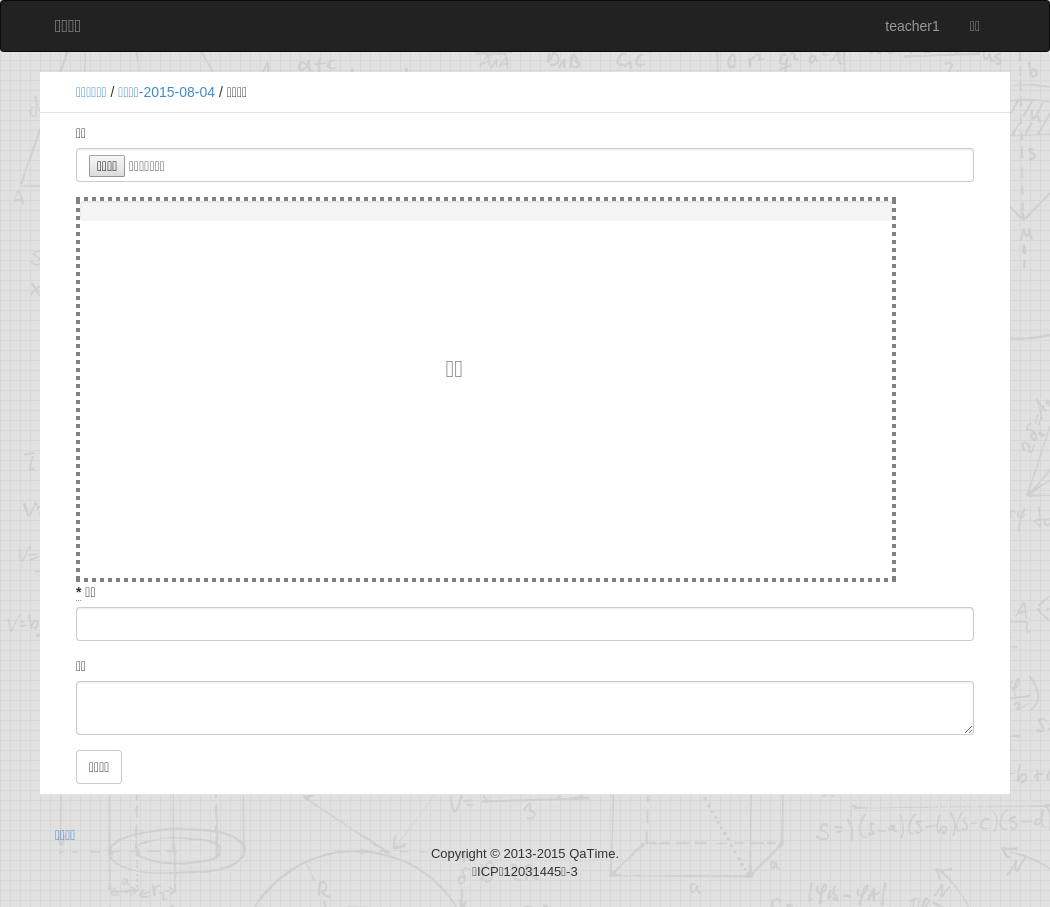
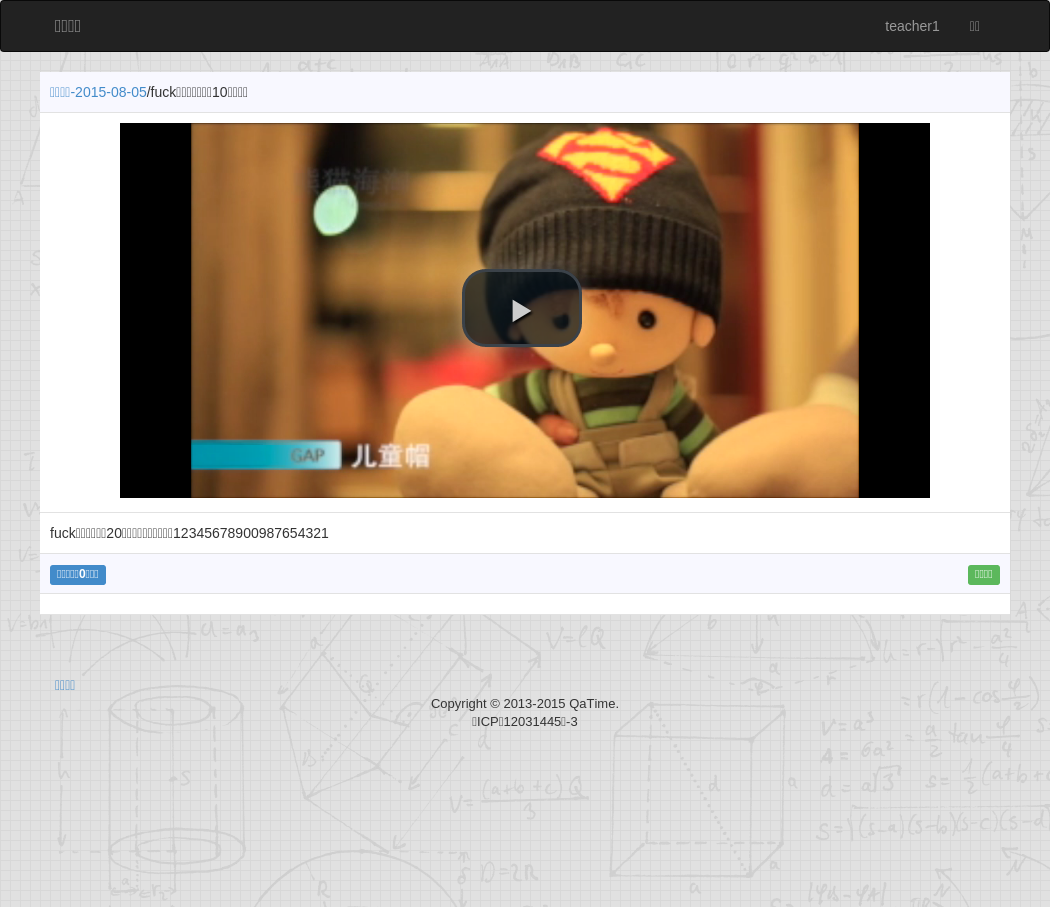
customize course create edit test

diff --git a/test/integration/customized_tutorial_create_test.rb b/test/integration/customized_tutorial_create_test.rb
@@ -18,8 +18,51 @@ class CustomizedTutorialCreateTest < ActionDispatch::IntegrationTest
 
   test 'customized tutorial create' do
     log_in_as(@teacher)
-
     visit new_customized_course_customized_tutorial_path(@customized_course)
+
+
+    fill_in :customized_tutorial_title,with: '这个长度不能少10的啊啊啊'
+    fill_in :customized_tutorial_content,with: '这个不能少于20啊啊啊啊啊啊啊啊啊啊12345678900987654321'
     page.save_screenshot('screenshot.png')
+
+    assert_difference 'Video.count',1 do
+      assert_difference 'CustomizedTutorial.count',1 do
+        attach_file("video_name","#{Rails.root}/test/integration/test.mp4")
+        l = CustomizedTutorial.all.order(:created_at => :desc).first
+        click_on '新增课程'
+        assert page.has_xpath?("//video[contains(@src,l.video.name)]")
+      end
+    end
+  end
+
+  test 'customized tutorial edit' do
+    log_in_as(@teacher)
+    customized_tutorial1 = customized_tutorials(:customized_tutorial1)
+    visit edit_customized_tutorial_path(customized_tutorial1)
+
+    video_old_name        = customized_tutorial1.video.name.url
+    title_old_name        = customized_tutorial1.title
+    content_old_name      = customized_tutorial1.content
+
+    title_new_name        = 'fuck这个长度不能少10的啊啊啊'
+    content_new_name      = 'fuck这个不能少于20啊啊啊啊啊啊啊啊啊啊12345678900987654321'
+    assert_difference 'Video.count',0 do
+      assert_difference 'CustomizedTutorial.count',0 do
+        attach_file("video_name","#{Rails.root}/test/integration/test.mp4")
+        fill_in :customized_tutorial_title,with: title_new_name
+        fill_in :customized_tutorial_content,with: content_new_name
+
+        click_on '更新课程'
+        page.save_screenshot('screenshot.png')
+        assert  page.has_content? title_new_name
+        assert  page.has_content? content_new_name
+
+        customized_tutorial1.reload
+        assert page.has_xpath?("//video[contains(@src,l.video.name)]")
+
+
+      end
+    end
+
   end
 end

diff --git a/app/controllers/customized_tutorials_controller.rb b/app/controllers/customized_tutorials_controller.rb
@@ -21,6 +21,14 @@ class CustomizedTutorialsController < ApplicationController
     respond_with @customized_tutorial
   end
 
+  def edit
+  end
+
+  def update
+    @customized_tutorial.update_attributes(params[:customized_tutorial].permit!)
+    respond_with @customized_tutorial
+  end
+
   def show
     @topics     = get_topics(@customized_tutorial)
   end
@@ -32,6 +40,7 @@ class CustomizedTutorialsController < ApplicationController
     end
     if params[:id]
       @customized_tutorial = CustomizedTutorial.find(params[:id])
+      @customized_course   = @customized_tutorial.customized_course
       res                  = @customized_tutorial
     end
     res

diff --git a/app/models/permissions/teacher_permission.rb b/app/models/permissions/teacher_permission.rb
@@ -88,7 +88,7 @@ module Permissions
       allow :customized_tutorials,[:new,:create] do |customized_course|
         user and customized_course.teacher_ids.include?(user.id)
       end
-      allow :customized_tutorials,[:show,:edit] do |customized_tutorial|
+      allow :customized_tutorials,[:show,:edit,:update] do |customized_tutorial|
         user and customized_tutorial.teacher_id == user.id
       end
 
